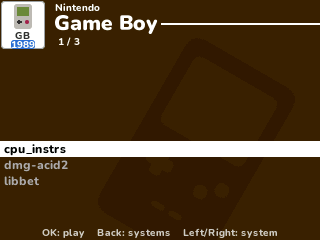
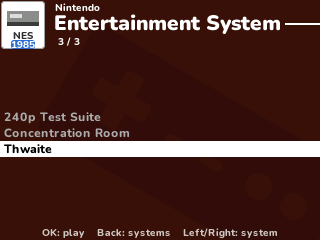
Retro-Go: README, how to play, credits and pictures
The game's README says where the games come from (the customizer website), what plays
(the Game Boy and Game Boy Color cartridge types, nofrendo's 34 NES mappers), the menus,
options and keys, and what doesn't fit: no sound, about 42 KB for every app's saves, no
calculator clock, cartridges with more than 32 KB of RAM. Master System and Game Gear wait for
a Z80 core that can be shared.

NumPlay's README gets a section of its own for it (it isn't in NumPlay.nwa), the roadmap line
ticked, the credits (Retro-Go by ducalex, gnuboy, nofrendo and the test ROMs) and the fine
print, and the gallery a GIF made in tools/emu.py with homebrew games. The how-to-play page
gets its keys. romtable.py also reads the games from a list file (ROMS_LIST=file), for names
with spaces.

diff --git a/tools/romtable.py b/tools/romtable.py
@@ -20,6 +20,7 @@ All numbers are little-endian. To be the same byte for byte as the website's for
 
 usage:
   romtable.py -o roms.o [ROM...]       an ARM object for the calculator (the default)
+  romtable.py -o roms.o --list FILE    the ROMs named in FILE, one a line (names with spaces)
   romtable.py --c roms.c [ROM...]      the same table as C, for the simulator and tests
   romtable.py --bin roms.bin [ROM...]  just the table's bytes"""
 import argparse
@@ -102,10 +103,13 @@ def main():
     ap.add_argument("-o", dest="obj", help="ARM object to write")
     ap.add_argument("--c", dest="csrc", help="C source to write")
     ap.add_argument("--bin", dest="bin", help="raw table to write")
+    ap.add_argument("--list", help="a file naming more ROMs, one a line (for names with spaces)")
     ap.add_argument("roms", nargs="*")
     a = ap.parse_args()
     if not (a.obj or a.csrc or a.bin):
         ap.error("say where: -o, --c or --bin")
+    if a.list:
+        a.roms += [line.strip() for line in open(a.list, encoding="utf-8") if line.strip()]
     blob = table(a.roms)
     for path, data in ((a.obj, lambda: elf_object(blob)), (a.csrc, lambda: c_source(blob).encode()),
                        (a.bin, lambda: blob)):

diff --git a/README.md b/README.md
@@ -87,6 +87,16 @@ These are too big to fit next to NumPlay, so each one is its own app. Install it
   </tr>
 </table>
 
+## Your own Game Boy and NES games
+
+<table>
+  <tr>
+    <td align="center" width="33%"><a href="games/retrogo/README.md"><img src="docs/media/thumb_retrogo.png" width="200" alt="Retro-Go"><br><b>Retro-Go</b></a><br><sub>Game Boy, Game Boy Color and NES games, with Retro-Go's menus and save slots</sub></td>
+  </tr>
+</table>
+
+Retro-Go plays the Game Boy, Game Boy Color and NES games you choose: games you own, or free ones like homebrew games. It isn't in NumPlay.nwa: you get it, with your games inside, from NumPlay's customizer website.
+
 ## How to install
 
 You need your calculator, its USB cable, and a computer with **Google Chrome** or **Microsoft Edge**. It takes about 2 minutes.
@@ -176,6 +186,7 @@ Filmed on my own calculator, no emulator.
 - [x] The Powder Toy (NumPowder)
 - [x] Block Blast
 - [x] Undertale: the whole Underground, from the Ruins to New Home and the neutral ending
+- [x] [Retro-Go](https://github.com/ducalex/retro-go) for Game Boy, Game Boy Color and NES: upload your own ROMs on the website and get a .nwa app that plays them
 - [ ] The Binding of Isaac
 - [ ] Plants vs. Zombies
 - [ ] Doom
@@ -190,7 +201,6 @@ Filmed on my own calculator, no emulator.
 - [ ] The Nether and the End in NumBlocks
 - [ ] Full Minecraft 1.18.2 as a standalone app
 - [ ] A customizer website: pick the games you want in your launcher, with Enlarged Extra Apps support to fit several big games, or big and small ones together
-- [ ] [Retro-Go](https://github.com/ducalex/retro-go) for Game Boy, NES and more: upload your own ROMs on the website and get a .nwa app that plays them
 
 ## Credits
 
@@ -212,6 +222,7 @@ NumPlay is a fan project, made out of love for these games and for the NumWorks 
 - **Buckshot Roulette** by Mike Klubnika inspired NumPlay's Buckshot Roulette, whose scenes are rendered from the game through the Open Buckshot Roulette project (1503Dev). Fonts: Fake Receipt by Ray Larabie and Dot Matrix by Dionaea.
 - The **Doodle Champion Island Games** (2021) inspired Champion Island, which uses the doodle's own pictures, maps and texts from the [Google-Doodle-Champion-Island](https://github.com/potherca-blog/Google-Doodle-Champion-Island) archive by potherca-blog, and the **PixelMplus** font by Itou Hiroki ([license](LICENSES/PixelMplus.txt)).
 - **[Portal Returns](https://www.cemetech.net/downloads/files/1313/x1313)** by MateoConLechuga for the TI-84 Plus CE, with sprites by CKH4 and Portal Prelude chambers ported by Unicorn from BuilderBoy's original.
+- **[Retro-Go](https://github.com/ducalex/retro-go)** by ducalex inspired NumPlay's Retro-Go, whose launcher, menus and frame skipping are written again for NumPlay with no code copied from it. Its emulators are **[gnuboy](https://github.com/rofl0r/gnuboy)** by Laguna and Gilgamesh (GNU GPL v2 or later) for the Game Boy and **nofrendo** by Matthew Conte (GNU LGPL v2, used under the GPL) for the NES. Its tests use Blargg's test ROMs, Matt Currie's dmg-acid2 and cgb-acid2 and kevtris's nestest. Not affiliated with them.
 - The **Nunito** and **Rammetto One** fonts, under the SIL Open Font License ([LICENSES](LICENSES)).
 - The **Fusion Pixel** font by TakWolf (with glyphs from **Ark Pixel**), under the SIL Open Font License ([license](LICENSES/OFL-1.1-Fusion-Pixel.txt)), for the Chinese letters.
 - **[Upsilon](https://github.com/UpsilonNumworks/Upsilon)**, the custom software NumPlay-Upsilon.nwa runs on.
@@ -224,7 +235,7 @@ NumPlay is a fan project, made out of love for these games and for the NumWorks 
 
 NumPlay is licensed under the [GNU General Public License v3.0](LICENSE). Copyright (c) 2026 Mason Chen. Code and fonts from others keep their own licenses: the `UNLICENSE` files in the games' folders and the [LICENSES](LICENSES) folder. The names, artwork and music of the games NumPlay is inspired by belong to their makers and are not covered by it.
 
-<sub>Unofficial fan games, not affiliated with NumWorks, RobTop Games (Geometry Dash), Hipster Whale (Crossy Road), the makers of Drive Mad, LocalThunk or Playstack (Balatro), Mike Klubnika or Critical Reflex (Buckshot Roulette), Hungry Studio (Block Blast!), Mojang or Microsoft (Minecraft), Maddy Makes Games (Celeste), Team Cherry (Hollow Knight), Toby Fox (Undertale), Florian van Strien (The Final Earth 2), The Powder Toy's developers (The Powder Toy), MateoConLechuga (Portal Returns), Valve (Portal), .GEARS (Flappy Bird), Bandai Namco (Pac-Man), Hasbro (Connect Four), Google (Snake, Solitaire, Block Breaker, Chrome Dino, Doodle Champion Island Games), STUDIO4°C or Microsoft (Minesweeper). Tetris is a trademark of The Tetris Company, Chrome of Google LLC, Minecraft of Mojang Synergies AB, Pac-Man of Bandai Namco and Connect Four of Hasbro.</sub>
+<sub>Unofficial fan games, not affiliated with NumWorks, RobTop Games (Geometry Dash), Hipster Whale (Crossy Road), the makers of Drive Mad, LocalThunk or Playstack (Balatro), Mike Klubnika or Critical Reflex (Buckshot Roulette), Hungry Studio (Block Blast!), Mojang or Microsoft (Minecraft), Maddy Makes Games (Celeste), Team Cherry (Hollow Knight), Toby Fox (Undertale), Florian van Strien (The Final Earth 2), The Powder Toy's developers (The Powder Toy), MateoConLechuga (Portal Returns), Valve (Portal), .GEARS (Flappy Bird), Bandai Namco (Pac-Man), Hasbro (Connect Four), Google (Snake, Solitaire, Block Breaker, Chrome Dino, Doodle Champion Island Games), STUDIO4°C or Microsoft (Minesweeper), ducalex (Retro-Go), Nintendo (Game Boy, NES). Tetris is a trademark of The Tetris Company, Chrome of Google LLC, Minecraft of Mojang Synergies AB, Pac-Man of Bandai Namco, Connect Four of Hasbro, and Game Boy, Game Boy Color and NES of Nintendo.</sub>
 
 ## Gallery
 
@@ -273,5 +284,8 @@ NumPlay is licensed under the [GNU General Public License v3.0](LICENSE). Copyri
     <td align="center"><img src="docs/media/gallery/celeste.gif" width="100%" alt="Celeste on a real NumWorks calculator: Madeline climbs the first level"><br><a href="games/celeste/README.md"><b>Celeste</b></a></td>
     <td align="center"><img src="docs/media/gallery/championisland.gif" width="100%" alt="Champion Island: climbing, artistic swimming and the marathon"><br><a href="games/championisland/README.md"><b>Champion Island</b></a></td>
     <td align="center"><img src="docs/media/gallery/undertale.gif" width="100%" alt="Undertale: Flowey's friendliness pellets, Toriel's tile puzzle and her fire"><br><a href="games/undertale/README.md"><b>Undertale</b></a></td>
+  </tr>
+  <tr>
+    <td align="center"><img src="docs/media/gallery/retrogo.gif" width="100%" alt="Retro-Go: from the Game Boy tab to the NES list, then Thwaite, a homebrew game, starts and fireworks stop the missiles"><br><a href="games/retrogo/README.md"><b>Retro-Go</b></a></td>
   </tr>
 </table>

diff --git a/games/retrogo/README.md b/games/retrogo/README.md
@@ -1,0 +1,61 @@
+# Retro-Go
+
+Play your own Game Boy, Game Boy Color and NES games on the NumWorks calculator. Retro-Go is the launcher and emulators of handhelds like the ODROID-GO, whose screen is the calculator's size; this is its look and its menus, made for the keypad.
+
+<img src="docs/shot.png" width="320" alt="Retro-Go's list of NES games, with Thwaite chosen">
+
+You pick the games on NumPlay's customizer website: it puts them inside your NumPlay (or inside Retro-Go on its own), and they stay in the calculator's memory for apps. Only games you own or that are free to share, like the homebrew games in the pictures here.
+
+- **Retro-Go's launcher:** a tab for each system with its own colours, the game list, and for each game Resume game, New game, Delete save and Properties.
+- **Game Boy and Game Boy Color** with gnuboy, the emulator Retro-Go started from: the cartridges with MBC1, MBC2, MBC3 (with its clock), MBC5, HuC1 and HuC3 bank controllers, up to 32 KB of cartridge RAM.
+- **NES** with nofrendo, Retro-Go's NES emulator at its start: 34 mappers, among them NROM, MMC1, UNROM, CNROM, MMC3, MMC5, AxROM, MMC2, Namco 163 and the Konami VRC chips.
+- **Full speed** on every calculator: as Retro-Go does, a frame is drawn, then at least one is skipped, more when the calculator can't keep up, so the game always runs at its own speed.
+- **Retro-Go's menu** in a game: Save & Continue, Save & Quit, Load game, Reset, Options, Controls, About and Quit.
+- **4 save slots** for each game, and the cartridges' own battery saves, kept a few seconds after the game writes them. Home saves and quits.
+- **Options:** the picture at 1x, Fit or Full screen, the speed from 0.5x to 2.5x, the Game Boy's DMG, Pocket, Light, GBC or SGB colours, the NES's Nofrendo or NTSC colours, its overscan, side cropping and sprite limit, the Game Boy's clock.
+
+<table>
+  <tr>
+    <td align="center"><img src="docs/tabs.png" width="320" alt="Retro-Go's NES tab: a red background with a controller"><br><sub>The NES tab</sub></td>
+    <td align="center"><img src="docs/game.png" width="320" alt="Thwaite, an NES homebrew game, in Fit mode"><br><sub>Thwaite, an NES homebrew game, in Fit</sub></td>
+  </tr>
+  <tr>
+    <td align="center"><img src="docs/menu.png" width="320" alt="Retro-Go's menu over the game"><br><sub>Retro-Go's menu</sub></td>
+    <td align="center"><img src="docs/options.png" width="320" alt="Retro-Go's options: scaling, speed and the emulator's options"><br><sub>Options</sub></td>
+  </tr>
+</table>
+
+## Controls
+
+| Key | In the launcher | In a game |
+| --- | --- | --- |
+| Arrows | Choose a system, then a game | The D-pad |
+| OK | Open the system, then the game | A |
+| Back | Back to the systems | B |
+| shift | | Select |
+| EXE | Like OK | Start |
+| Backspace | Options, Controls, About | Retro-Go's menu |
+| Home | Quit | Save and quit |
+
+In 1x on the Game Boy, the keys are written on the side of the screen. The first time you play, Retro-Go shows them, and Controls in its menu shows them again.
+
+## Good to know
+
+- No sound: the calculator has no speaker.
+- The calculator has about 42 KB for every app's saves. A Game Boy or NES state takes 2 to 10 KB, a Game Boy Color one up to 30 KB, so keep the slots you need and delete the others in the launcher (Delete save).
+- The calculator has no clock for apps: a Game Boy game's clock runs while you play, and you can set it in Options, RTC config.
+- Cartridges with more than 32 KB of RAM (a few Game Boy Color games) and NES mappers nofrendo doesn't have say so instead of starting.
+- Master System and Game Gear, which Retro-Go also plays, are not here yet: the emulator Retro-Go uses for them has a Z80 core that may not be shared freely.
+
+## Credits
+
+[Retro-Go](https://github.com/ducalex/retro-go) is **ducalex**'s. Its code is under the GPL version 2 only, which can't be mixed with NumPlay's GPL version 3, so none of it is copied here: the launcher, the menus, the options and the frame skipping are written again from how Retro-Go looks and works, and its pictures are drawn again in its style. Not affiliated with Retro-Go.
+
+- **[gnuboy](https://github.com/rofl0r/gnuboy)** by Laguna and Gilgamesh and gnuboy's contributors (GPL-2.0-or-later, [COPYING](src/gb/COPYING)), from rofl0r's tree, emulates the Game Boy. Its picture is drawn by new code here: gnuboy's keeps 256 KB of decoded tiles, more than the calculator has.
+- **nofrendo** by Matthew Conte and nofrendo's contributors (version 2 of the GNU Library GPL, [COPYING.LGPL](src/nes/COPYING.LGPL), used under the GPL as its section 3 allows) emulates the NES. Its 2.0 release is the one used here.
+- The tests run [Blargg's test ROMs](https://github.com/retrio/gb-test-roms), [dmg-acid2 and cgb-acid2](https://github.com/mattcurrie) by Matt Currie and [nestest](https://github.com/christopherpow/nes-test-roms) by kevtris, which aren't in NumPlay. The pictures show [Thwaite](https://github.com/pinobatch/thwaite-nes), [Concentration Room](https://github.com/pinobatch/croom-nes), [Libbet and the Magic Floor](https://github.com/pinobatch/libbet) and the [240p Test Suite](https://github.com/pinobatch/240p-test-mini) by Damian Yerrick and others, and [µCity](https://github.com/AntonioND/ucity) by Antonio Niño Díaz, all free homebrew games.
+- Game Boy, Game Boy Color and NES are trademarks of Nintendo. Not affiliated with Nintendo.
+
+Made by Mason Chen as part of NumPlay. It comes from the customizer website with your games in it, inside [NumPlay](https://github.com/Mason363/NumPlay) or on its own.
+
+Build: `make ROMS="game.gb game.nes"` makes `output/retrogo.nwa` with those games in it, and `make test` checks the emulators and the saves on your computer (see `tests/`).

diff --git a/docs/play.md b/docs/play.md
@@ -468,3 +468,20 @@ Google's brick breaker: seven bricks across in blue, red, yellow and green, wall
 11 backgrounds and 5 add-ons: a clock, a stopwatch, a timer, a counter and your own text (press **Alpha** for letters). Everything is kept for next time.
 
 <br clear="right">
+
+## Retro-Go
+
+<img src="../games/retrogo/docs/game.png" width="320" align="right" alt="Retro-Go: Thwaite, an NES homebrew game">
+
+| Key | What it does |
+| --- | --- |
+| **Arrows** | Choose a system, then a game. In a game: the D-pad |
+| **OK** | Open it. In a game: **A** |
+| **Back** | Back to the systems. In a game: **B** |
+| **shift** / **EXE** | In a game: **Select** / **Start** |
+| **Backspace** | Retro-Go's menu: save, load, reset, options |
+| **Home** | Save and quit |
+
+Game Boy, Game Boy Color and NES games you pick on NumPlay's customizer website. Open a game for New game, or Resume game from one of its 4 save slots. In a game, Backspace opens Retro-Go's menu: Save & Continue, Save & Quit, Load game, Reset and Options, where the picture can be 1x, Fit or Full screen. The cartridges' own saves are kept as well.
+
+<br clear="right">
